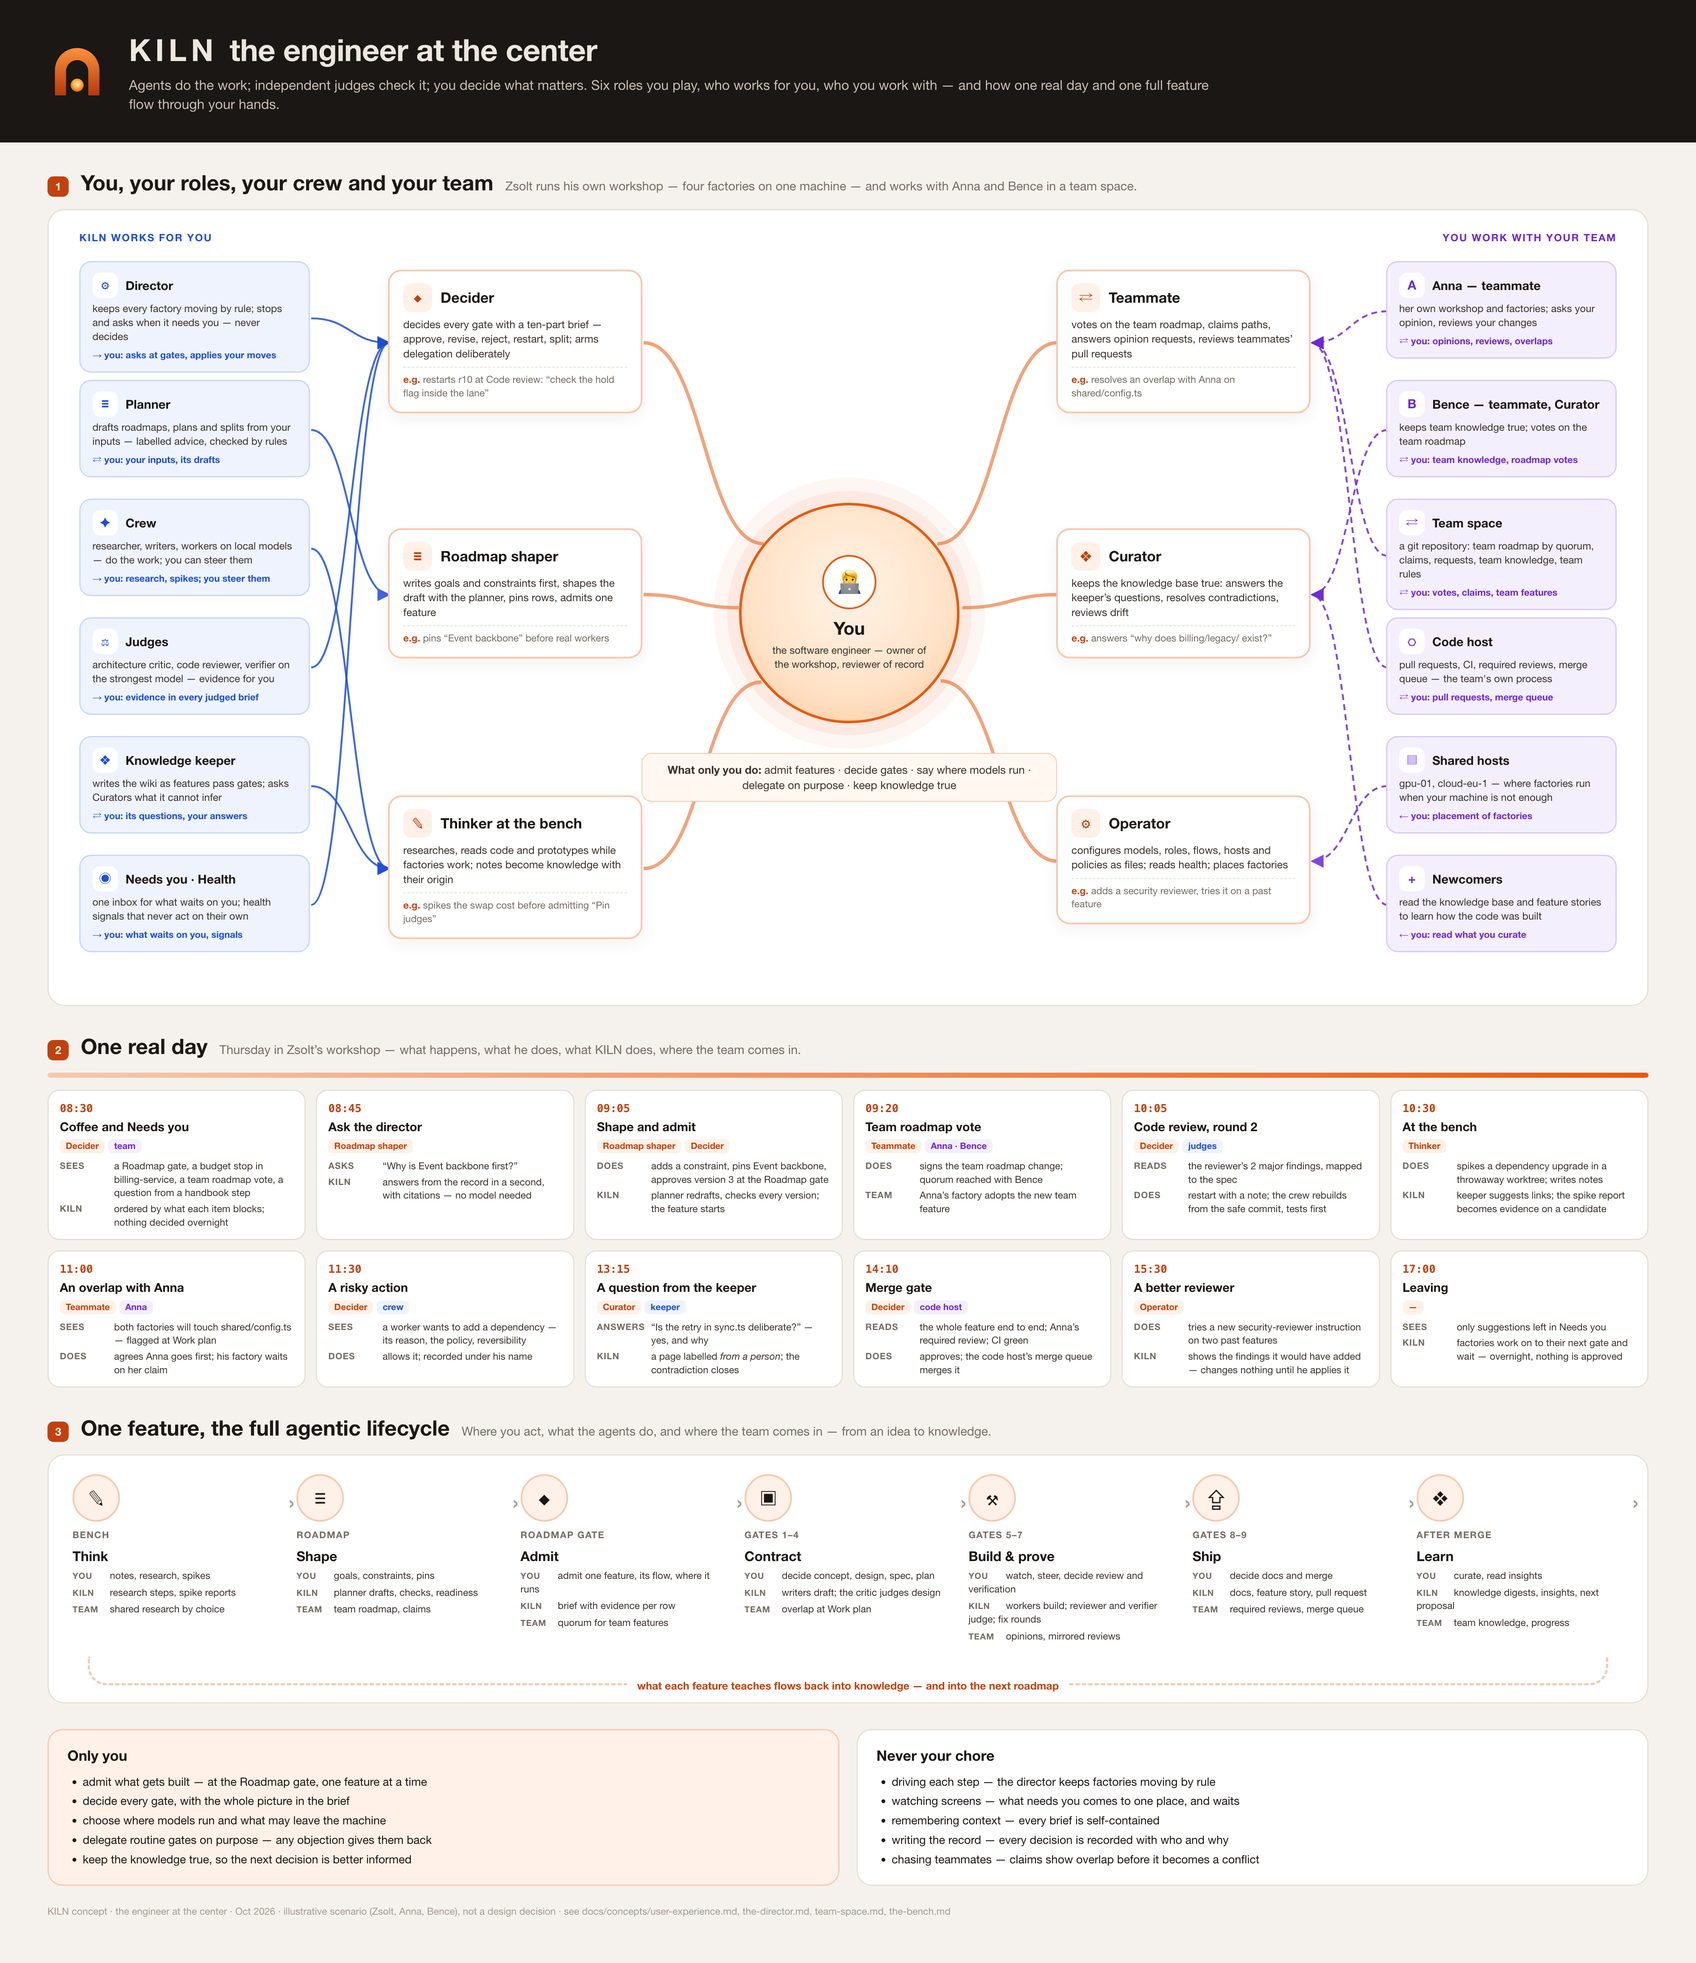
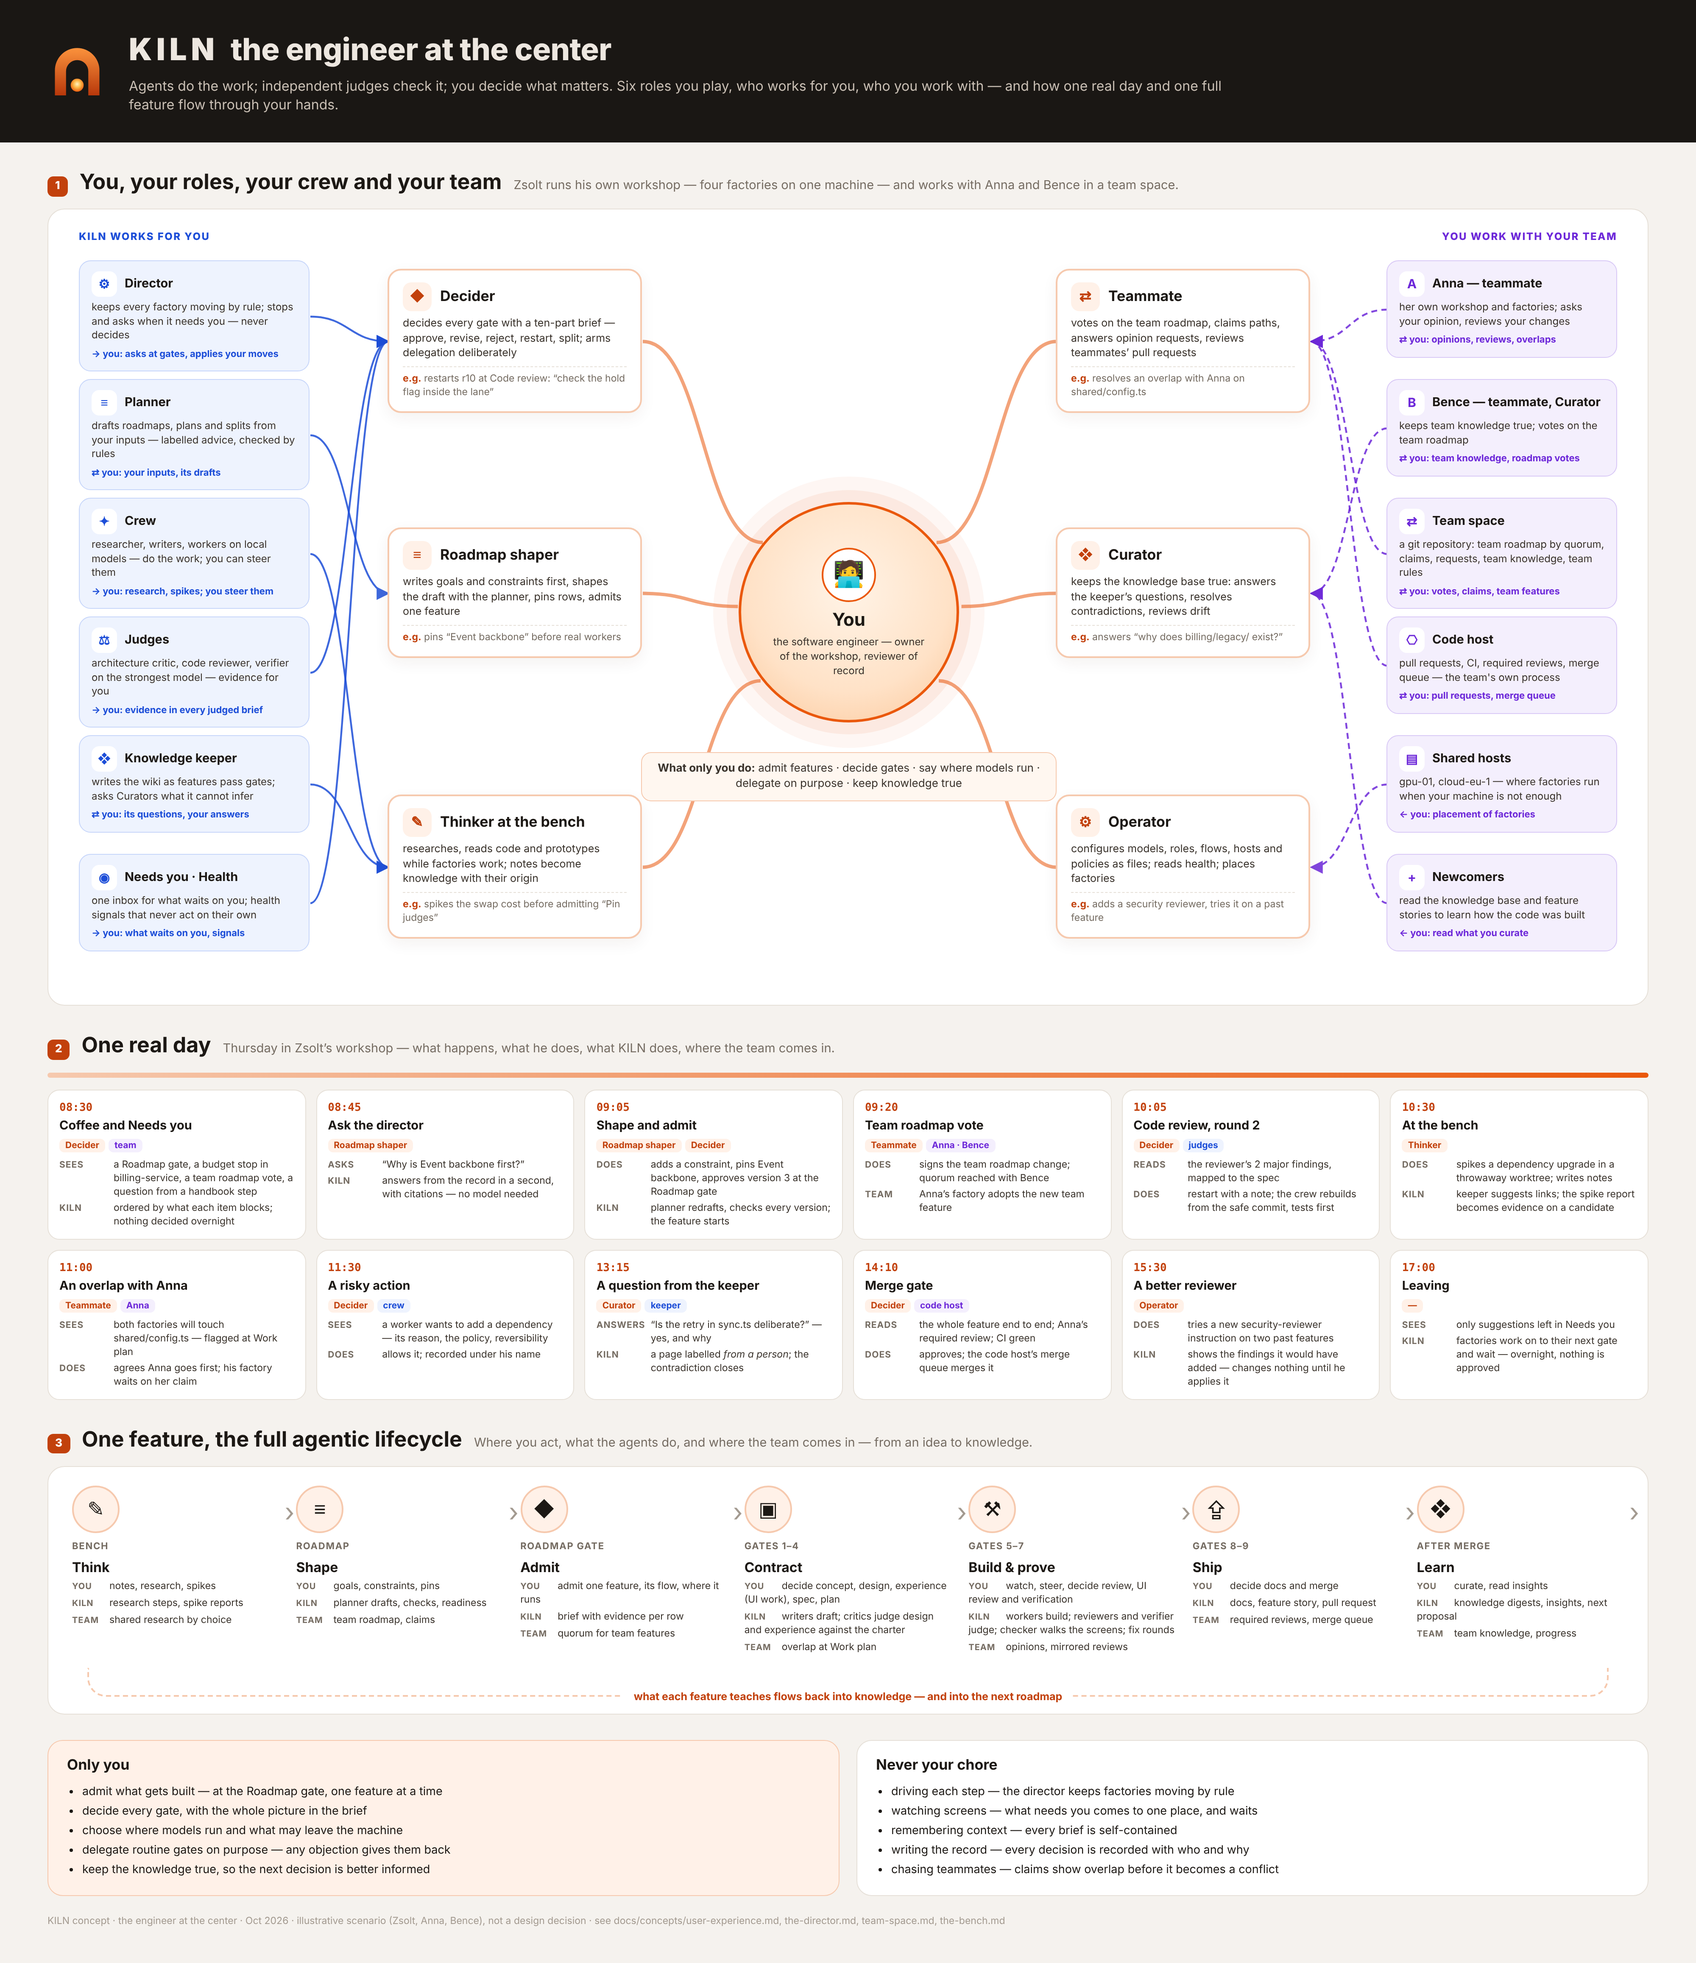
docs: update the infographics for the twelve-gate flow and the experience charter
Claude-Session: https://claude.ai/code/session_01SEMZrA5RguzPuZJa4EMxUB

diff --git a/docs/concepts/infographic/src/kiln-at-a-glance.html b/docs/concepts/infographic/src/kiln-at-a-glance.html
@@ -31,7 +31,7 @@ body{background:var(--bg);color:var(--ink);font-family:var(--sans);font-size:14p
 .card{background:var(--surface);border:1px solid var(--line);border-radius:16px;padding:22px 24px}
 .k{font-size:11.5px;text-transform:uppercase;letter-spacing:.1em;font-weight:700;color:var(--muted)}
 /* flow */
-.flow{display:grid;grid-template-columns:200px 22px repeat(4,1fr) 22px repeat(3,1fr) 22px repeat(2,1fr);gap:10px;align-items:stretch}
+.flow{display:grid;grid-template-columns:200px 22px repeat(5,1fr) 22px repeat(4,1fr) 22px repeat(2,1fr);gap:10px;align-items:stretch}
 .ph{font-size:12px;text-transform:uppercase;letter-spacing:.1em;font-weight:800;color:var(--muted);border-bottom:3px solid var(--line);padding-bottom:6px}
 .ph.c{border-color:#93B4F5}.ph.b{border-color:#F6C9AE}.ph.r{border-color:#BFE3CB}.ph.p{border-color:#FDBA74}
 .g{border:1.5px solid var(--line);border-radius:12px;background:#fff;padding:12px 12px 11px;display:flex;flex-direction:column;gap:6px}
@@ -40,10 +40,11 @@ body{background:var(--bg);color:var(--ink);font-family:var(--sans);font-size:14p
 .g .q{font-size:12.5px;color:var(--ink-2);line-height:1.35;flex:1}
 .g .j{font-size:11px;font-weight:800;color:#fff;background:var(--ink-2);border-radius:6px;padding:2px 7px;width:fit-content}
 .g.jd{border:2.5px solid var(--ink-2)}
+.g.ui{background:#F3F0FF}
 .g.rm{background:var(--ember-soft);border-color:var(--ember-line)}
 .g.rm h3{color:var(--ember)}
 .arr{display:flex;align-items:center;justify-content:center;color:var(--faint);font-size:24px;font-weight:300}
-.bands{display:grid;grid-template-columns:200px 22px repeat(4,1fr) 22px repeat(3,1fr) 22px repeat(2,1fr);gap:10px;margin-top:10px;align-items:start}
+.bands{display:grid;grid-template-columns:200px 22px repeat(5,1fr) 22px repeat(4,1fr) 22px repeat(2,1fr);gap:10px;margin-top:10px;align-items:start}
 .band{border-radius:9px;font-size:12.5px;padding:7px 11px;font-weight:650}
 .band.tri{background:var(--s2);border:1.5px dashed var(--line);color:var(--muted)}
 .band.del{background:var(--deleg-soft);border:1.5px solid var(--deleg-line);color:var(--deleg)}
@@ -124,7 +125,7 @@ body{background:var(--bg);color:var(--ink);font-family:var(--sans);font-size:14p
 </div>
 <div class="beliefs">
   <div><b>Humans decide</b>no model approves its own work; nothing ships without a person</div>
-  <div><b>Independent judges</b>Design, Code review and Verification judged on the strongest model</div>
+  <div><b>Independent judges</b>Every judged gate (design, experience, code, UI, verification) judged on the strongest model</div>
   <div><b>Your models, your rules</b>local by default; private or cloud only by policy</div>
   <div><b>Durable</b>a crash interrupts work, never loses it — and never approves anything</div>
   <div><b>Explainable</b>every decision, swap and byte that left is in the record</div>
@@ -134,22 +135,24 @@ body{background:var(--bg);color:var(--ink);font-family:var(--sans);font-size:14p
 
 <!-- 1. PROCESS -->
 <div class="sec">
-  <div class="sh"><span class="no">1</span><h2>The process — from roadmap to merge</h2><p>The default flow: ten gates in four phases. Teams may add gates between them; none can be removed.</p></div>
+  <div class="sh"><span class="no">1</span><h2>The process — from roadmap to merge</h2><p>The default flow: twelve gates in four phases — two of them apply when a feature touches the interface. Teams may add gates between them; none can be removed.</p></div>
   <div class="card">
     <div class="flow">
       <div class="ph p">Program</div><div></div>
-      <div class="ph c" style="grid-column:span 4">Contract — what to build</div><div></div>
-      <div class="ph b" style="grid-column:span 3">Build and prove</div><div></div>
+      <div class="ph c" style="grid-column:span 5">Contract — what to build</div><div></div>
+      <div class="ph b" style="grid-column:span 4">Build and prove</div><div></div>
       <div class="ph r" style="grid-column:span 2">Release</div>
       <div class="g rm"><span class="n">PROGRAM · PERSON ONLY</span><h3>Roadmap gate</h3><div class="q">Which feature next, in what order — and how does this factory run? Admits one feature at a time.</div></div>
       <div class="arr">›</div>
       <div class="g"><span class="n">1</span><h3>Concept</h3><div class="q">Is this worth building, on these premises?</div></div>
       <div class="g jd"><span class="n">2</span><h3>Design</h3><div class="q">Is this the right structure?</div><span class="j">architecture critic</span></div>
+      <div class="g jd ui"><span class="n">2a · INTERFACE WORK</span><h3>Experience design</h3><div class="q">Right experience for these users and journeys, within the charter?</div><span class="j">design critic</span></div>
       <div class="g"><span class="n">3</span><h3>Specification</h3><div class="q">What exactly counts as done — and what must not change?</div></div>
       <div class="g"><span class="n">4</span><h3>Work plan</h3><div class="q">In what pieces and order? Sets the model order on the lane.</div></div>
       <div class="arr">›</div>
       <div class="g"><span class="n">5</span><h3>Implementation</h3><div class="q">Start from a safe, restorable point? Still one feature?</div></div>
       <div class="g jd"><span class="n">6</span><h3>Code review</h3><div class="q">Is the code right, against the specification?</div><span class="j">code reviewer</span></div>
+      <div class="g jd ui"><span class="n">6a · INTERFACE WORK</span><h3>UI review</h3><div class="q">Does what was built match what was approved — accessible, consistent?</div><span class="j">UI reviewer</span></div>
       <div class="g jd"><span class="n">7</span><h3>Verification</h3><div class="q">Does it work as specified? ≤ 2 automatic fix rounds first.</div><span class="j">verifier</span></div>
       <div class="arr">›</div>
       <div class="g"><span class="n">8</span><h3>Documentation</h3><div class="q">Do docs and knowledge describe what was built?</div></div>
@@ -157,9 +160,9 @@ body{background:var(--bg);color:var(--ink);font-family:var(--sans);font-size:14p
     </div>
     <div class="bands">
       <div class="band rloop">↺ re-opens after every merge</div><div></div>
-      <div class="band tri" style="grid-column:span 2">triage may skip Concept + Design for small features</div>
+      <div class="band tri" style="grid-column:span 2">triage may skip Concept + Design for small features</div><div class="band tri">not applicable gates are recorded</div>
       <div class="band tri" style="background:#fff;border-style:solid">◆ arm the unattended tail</div>
-      <div class="band del" style="grid-column:span 7">unattended tail (optional): Work plan → Documentation cross on a clean path · any judge’s objection ends it</div><div class="band tri">Merge only if delegated</div>
+      <div class="band del" style="grid-column:span 8">unattended tail (optional): Work plan → Documentation cross on a clean path · UI review always waits for a person · any judge’s objection ends it</div><div class="band tri">Merge only if delegated</div>
     </div>
     <div class="flowfoot">
       <div class="mv ok"><b>approve</b>moves to the next gate</div>
@@ -182,7 +185,7 @@ body{background:var(--bg);color:var(--ink);font-family:var(--sans);font-size:14p
           <div class="layer l2"><div class="lt">Director<small>orchestrates, never decides</small></div><div class="chips"><span><b>deterministic core</b> · executes the pinned flow</span><span><b>planner role</b> · drafts roadmaps, labelled</span><span>affinity scheduling</span><span>fix rounds</span><span>ask the director</span></div></div>
           <div class="layer l3"><div class="lt">Durable task graph<small>Pi Durable</small></div><div class="chips"><span>roadmap task</span><span>row task per feature</span><span>unit tasks → conversations</span><span><b>gate tasks</b> · wait, first move wins</span><span>lane task · one generation</span><span>exactly-once moves</span></div></div>
           <div class="layer l4"><div class="lt">Workers and judges<small>roles bound to models</small></div><div class="chips"><span><b>roles</b> · agents/*.md, versioned</span><span>tier map · judges → strongest</span><span><b>Spec Kit</b> · speckit.specify · plan · tasks</span><span>tool sets · replay rules</span><span>model pool · pins, leases</span></div></div>
-          <div class="layer" style="background:#fff"><div class="lt">Spec-driven artifacts<small>in the repository</small></div><div class="chips"><span><b>constitution</b> · every gate measures against it</span><span>specs/ROADMAP.md</span><span><b>specs/NNN-name/</b> · concept, design, spec, plan, tasks, reports</span><span>GitHub Spec Kit · Pi integration</span></div></div>
+          <div class="layer" style="background:#fff"><div class="lt">Spec-driven artifacts<small>in the repository</small></div><div class="chips"><span><b>constitution</b> · every gate measures against it</span><span><b>experience charter</b> · users, journeys, screen map, wireframes</span><span>specs/ROADMAP.md</span><span><b>specs/NNN-name/</b> · concept, design, spec, plan, tasks, reports</span><span>GitHub Spec Kit · Pi integration</span></div></div>
           <div class="layer l5"><div class="lt">Models<small>locality is a property</small></div><div class="chips"><span><b>local</b> · Ollama on the host</span><span><b>private</b> · team servers</span><span><b>cloud</b> · by profile + egress policy</span><span>budgets</span><span>cross-family judging</span></div></div>
         </div>
         <div class="side3">

diff --git a/docs/concepts/infographic/src/kiln-engineer-at-the-center.html b/docs/concepts/infographic/src/kiln-engineer-at-the-center.html
@@ -120,8 +120,8 @@ svg.links{position:absolute;left:0;top:0;pointer-events:none;overflow:visible}
  <div class="st"><div class="ic">✎</div><div class="ph">bench</div><h4>Think</h4><div class="w"><b>You</b>notes, research, spikes</div><div class="w"><b>KILN</b>research steps, spike reports</div><div class="w"><b>Team</b>shared research by choice</div></div>
  <div class="st"><div class="ic">≡</div><div class="ph">roadmap</div><h4>Shape</h4><div class="w"><b>You</b>goals, constraints, pins</div><div class="w"><b>KILN</b>planner drafts, checks, readiness</div><div class="w"><b>Team</b>team roadmap, claims</div></div>
  <div class="st"><div class="ic">◆</div><div class="ph">Roadmap gate</div><h4>Admit</h4><div class="w"><b>You</b>admit one feature, its flow, where it runs</div><div class="w"><b>KILN</b>brief with evidence per row</div><div class="w"><b>Team</b>quorum for team features</div></div>
- <div class="st"><div class="ic">▣</div><div class="ph">Gates 1–4</div><h4>Contract</h4><div class="w"><b>You</b>decide concept, design, spec, plan</div><div class="w"><b>KILN</b>writers draft; the critic judges design</div><div class="w"><b>Team</b>overlap at Work plan</div></div>
- <div class="st"><div class="ic">⚒</div><div class="ph">Gates 5–7</div><h4>Build &amp; prove</h4><div class="w"><b>You</b>watch, steer, decide review and verification</div><div class="w"><b>KILN</b>workers build; reviewer and verifier judge; fix rounds</div><div class="w"><b>Team</b>opinions, mirrored reviews</div></div>
+ <div class="st"><div class="ic">▣</div><div class="ph">Gates 1–4</div><h4>Contract</h4><div class="w"><b>You</b>decide concept, design, experience (UI work), spec, plan</div><div class="w"><b>KILN</b>writers draft; critics judge design and experience against the charter</div><div class="w"><b>Team</b>overlap at Work plan</div></div>
+ <div class="st"><div class="ic">⚒</div><div class="ph">Gates 5–7</div><h4>Build &amp; prove</h4><div class="w"><b>You</b>watch, steer, decide review, UI review and verification</div><div class="w"><b>KILN</b>workers build; reviewers and verifier judge; checker walks the screens; fix rounds</div><div class="w"><b>Team</b>opinions, mirrored reviews</div></div>
  <div class="st"><div class="ic">⇪</div><div class="ph">Gates 8–9</div><h4>Ship</h4><div class="w"><b>You</b>decide docs and merge</div><div class="w"><b>KILN</b>docs, feature story, pull request</div><div class="w"><b>Team</b>required reviews, merge queue</div></div>
  <div class="st"><div class="ic">❖</div><div class="ph">after merge</div><h4>Learn</h4><div class="w"><b>You</b>curate, read insights</div><div class="w"><b>KILN</b>knowledge digests, insights, next proposal</div><div class="w"><b>Team</b>team knowledge, progress</div></div>
  <div class="back"><span>what each feature teaches flows back into knowledge — and into the next roadmap</span></div>

diff --git a/docs/concepts/infographic/README.md b/docs/concepts/infographic/README.md
@@ -2,7 +2,7 @@
 
 ![KILN at a glance](kiln-at-a-glance.png)
 
-One poster of the whole concept at its highest level: the beliefs, the process (ten gates in four phases, judged gates,
+One poster of the whole concept at its highest level: the beliefs, the process (twelve gates in four phases — two of them for interface work — judged gates,
 triage skip, the unattended tail, where moves lead), the architecture layers (surfaces, director, durable task graph,
 workers and judges, spec-driven artifacts (Spec Kit), models; the record, knowledge and configuration beside them), the human's role (six activities, the
 ten-part gate brief, Needs you), workshop/hosts/team space, knowledge, the record, and three journeys — first run, an
@@ -10,11 +10,11 @@ existing codebase, bench to roadmap.
 
 Illustrative, not a design decision; the concept docs in `../` govern where they differ.
 
-Regenerate (4000 × 5560 px):
+Regenerate (4000 × 5746 px):
 
 ```sh
 cd src && "/Applications/Google Chrome.app/Contents/MacOS/Google Chrome" --headless=new --disable-gpu --hide-scrollbars \
-  --force-device-scale-factor=2 --window-size=2000,2780 --screenshot=../kiln-at-a-glance.png "file://$PWD/kiln-at-a-glance.html"
+  --force-device-scale-factor=2 --window-size=2000,2873 --screenshot=../kiln-at-a-glance.png "file://$PWD/kiln-at-a-glance.html"
 ```
 
 # The engineer at the center — infographic
